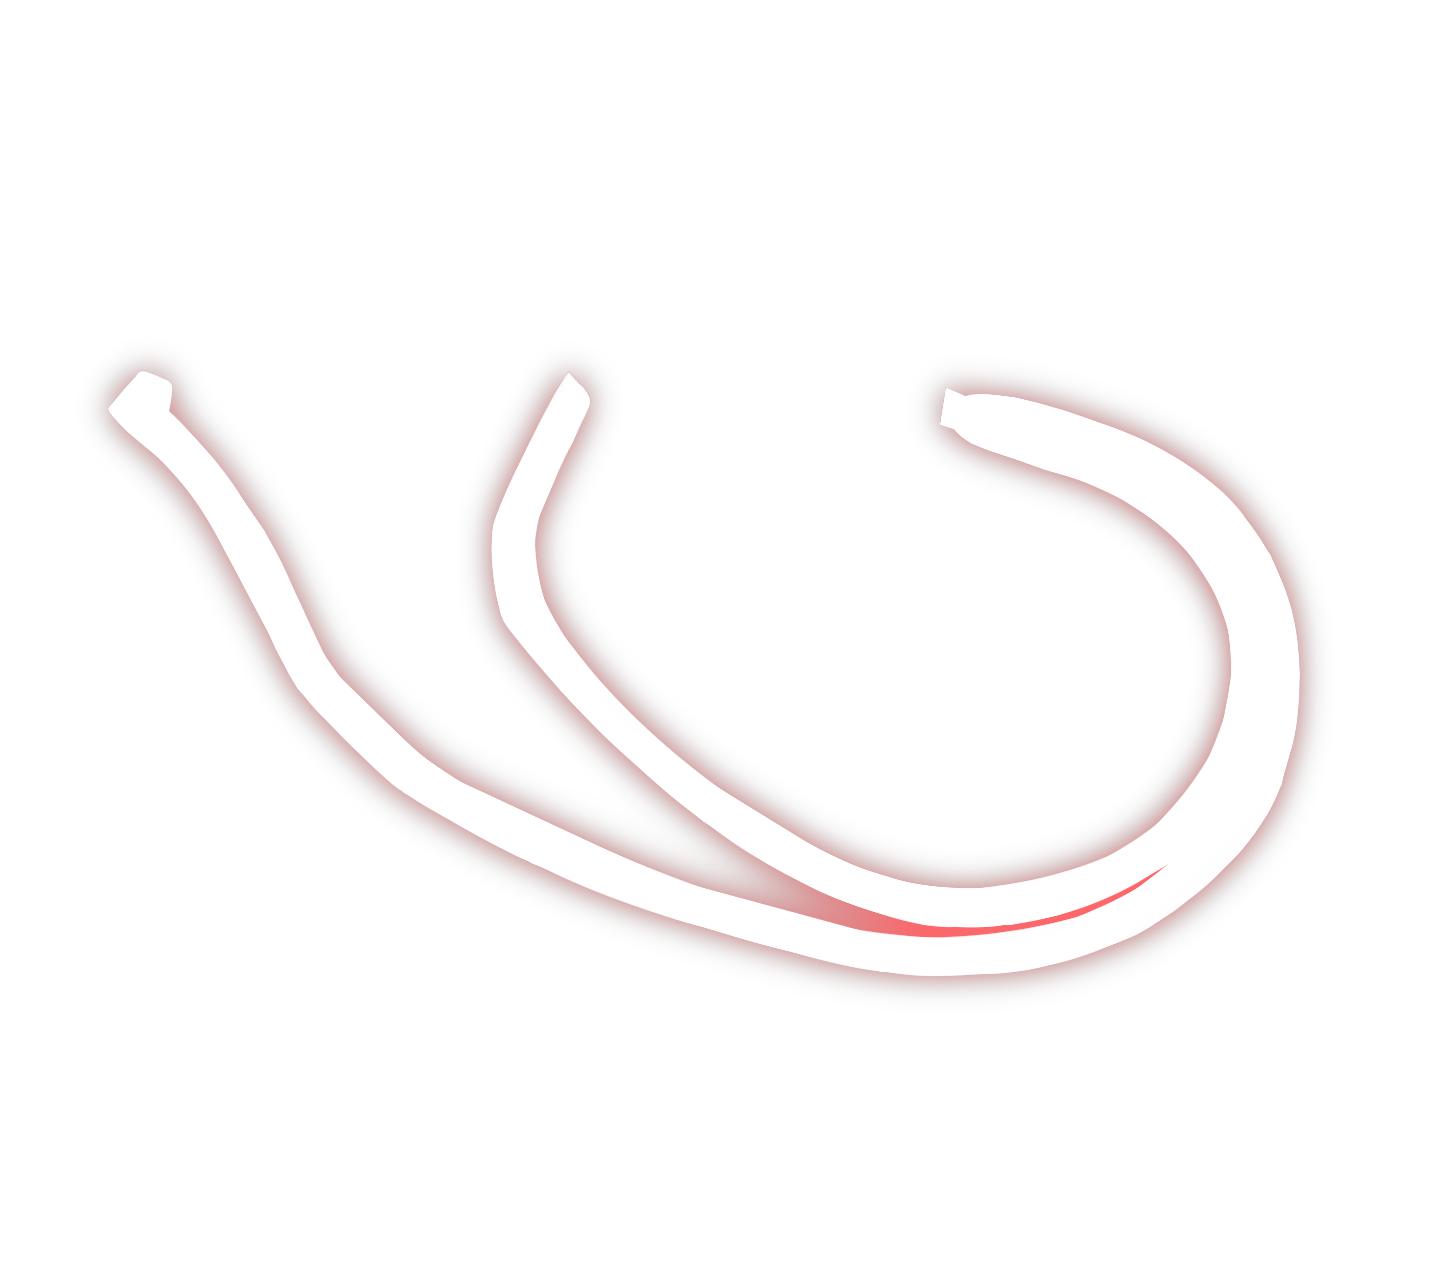
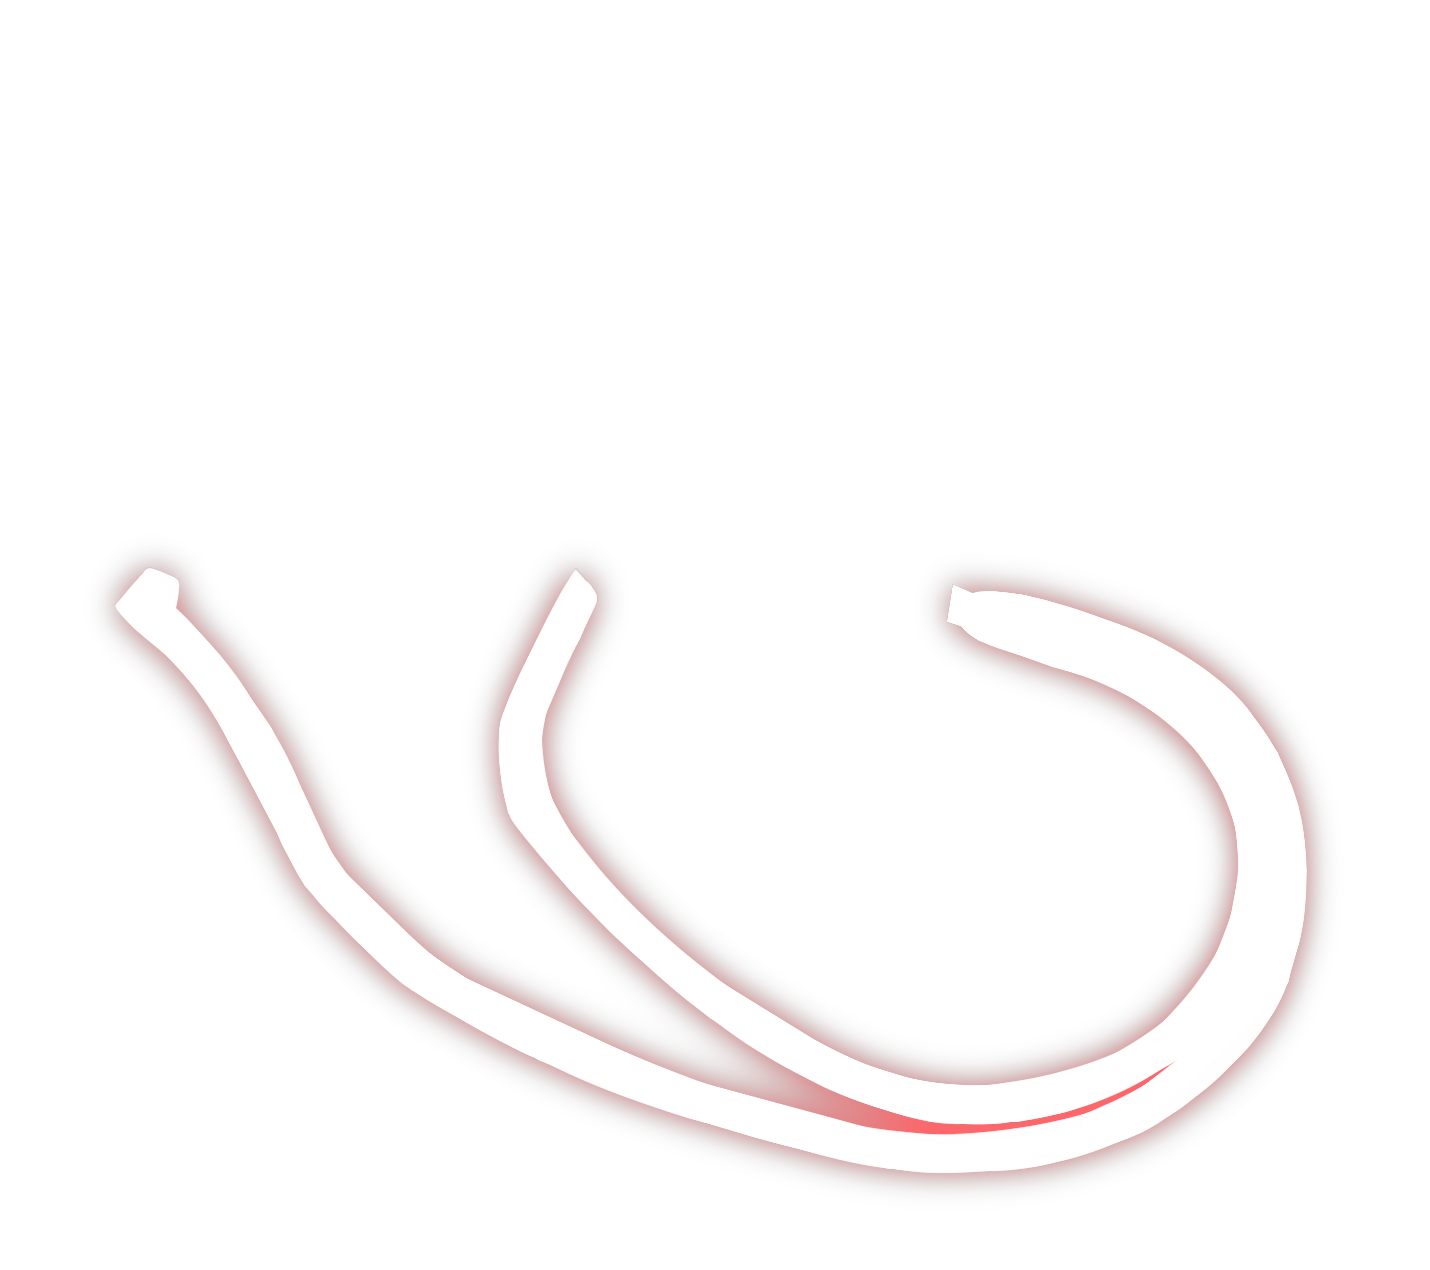
シルエットとターゲット位置をall.PNGに合わせて補正しました
all2.png (1280x1280) 基準のCSS座標をall.PNG (1430x1270) 基準に修正。
キャンバスオフセット dx=82, dy=192 を適用し、gen_css.py・pad_by_css.py・
style.cssを更新。padded_*_s.pngをすべて再生成。

diff --git a/style.css b/style.css
@@ -253,68 +253,68 @@ body {
 }
 
 
-/* 各ターゲットの位置とサイズ（仮の当たり判定領域） */
+/* 各ターゲットの位置とサイズ（all.PNGに合わせて補正済み: dx=82, dy=192 canvas px） */
 #target-1 {
-    left: 374.6px;
-    top: 34.5px;
-    width: 114.8px;
-    height: 121.9px;
+    left: 375.5px;
+    top: 107.3px;
+    width: 115.7px;
+    height: 122.8px;
 }
 
 /* bag (target-2) */
 #target-2 {
-    left: 678.4px;
-    top: 90.8px;
-    width: 118.5px;
-    height: 42.4px;
+    left: 681.6px;
+    top: 164.0px;
+    width: 119.4px;
+    height: 42.7px;
 }
 
 /* connect (target-3) */
 #target-3 {
-    left: 658.5px;
-    top: 106.1px;
-    width: 29.2px;
-    height: 55.5px;
+    left: 661.6px;
+    top: 179.5px;
+    width: 29.5px;
+    height: 55.9px;
 }
 
 /* filter (target-4) */
 #target-4 {
-    left: 450.8px;
-    top: 144.0px;
-    width: 31.5px;
-    height: 33.4px;
+    left: 452.2px;
+    top: 217.7px;
+    width: 31.7px;
+    height: 33.6px;
 }
 
 /* humidifier1 (target-5) */
 #target-5 {
-    left: 543.0px;
-    top: 70.9px;
-    width: 64.5px;
-    height: 93.0px;
+    left: 545.2px;
+    top: 144.0px;
+    width: 65.0px;
+    height: 93.7px;
 }
 
 /* humidifier2 (target-6) */
 #target-6 {
-    left: 545.6px;
-    top: 59.6px;
-    width: 60.0px;
-    height: 39.0px;
+    left: 547.8px;
+    top: 132.7px;
+    width: 60.5px;
+    height: 39.3px;
 }
 
 /* kairo1 (target-7) */
 #target-7 {
-    left: 373.1px;
-    top: 143.2px;
-    width: 447.0px;
-    height: 224.6px;
+    left: 374.0px;
+    top: 216.9px;
+    width: 450.5px;
+    height: 226.4px;
 }
 
 /* kairo2 (target-8) */
 #target-8 {
-    left: 459.0px;
-    top: 50.2px;
-    width: 106.5px;
-    height: 157.9px;
+    left: 460.5px;
+    top: 123.2px;
+    width: 107.3px;
+    height: 159.1px;
 }
 
 

diff --git a/gen_css.py b/gen_css.py
@@ -1,17 +1,21 @@
 def scale(origX, origY, origW, origH):
-    s = 0.375
-    offX = 360
+    # all.PNG (1430x1270) ベースの座標系
+    # canvas -> display: scale=480/1270, x_offset=(1200-1430*scale)/2
+    s = 480.0 / 1270.0      # 0.37795
+    offX = (1200.0 - 1430.0 * s) / 2.0  # 329.76
     return (offX + origX * s, origY * s, origW * s, origH * s)
 
+# all.PNG (1430x1270) 上の各パーツ座標 (x, y, w, h) in canvas pixels
+# all2.png (1280x1280) 元座標から dx=82, dy=192 オフセット補正済み
 targets = [
-    (1, 39, 92, 306, 325),
-    (2, 849, 242, 316, 113),
-    (3, 796, 283, 78, 148),
-    (4, 242, 384, 84, 89),
-    (5, 488, 189, 172, 248),
-    (6, 495, 159, 160, 104),
-    (7, 35, 382, 1192, 599),
-    (8, 264, 134, 284, 421)
+    (1, 121, 284, 306, 325),   # respirator  (旧: 39,92)
+    (2, 931, 434, 316, 113),   # bag         (旧: 849,242)
+    (3, 878, 475, 78, 148),    # connect     (旧: 796,283)
+    (4, 324, 576, 84, 89),     # filter      (旧: 242,384)
+    (5, 570, 381, 172, 248),   # humidifier1 (旧: 488,189)
+    (6, 577, 351, 160, 104),   # humidifier2 (旧: 495,159)
+    (7, 117, 574, 1192, 599),  # kairo1      (旧: 35,382)
+    (8, 346, 326, 284, 421)    # kairo2      (旧: 264,134)
 ]
 
 print("/* 各ターゲットの位置とサイズ（仮の当たり判定領域） */")

diff --git a/pad_by_css.py b/pad_by_css.py
@@ -2,14 +2,14 @@ from PIL import Image, ImageChops, ImageStat
 import os
 
 targets = {
-    1: {"left": 374.6, "top": 34.5, "width": 114.8, "height": 121.9},
-    2: {"left": 678.4, "top": 90.8, "width": 118.5, "height": 42.4},
-    3: {"left": 658.5, "top": 106.1, "width": 29.2, "height": 55.5},
-    4: {"left": 450.8, "top": 144.0, "width": 31.5, "height": 33.4},
-    5: {"left": 543.0, "top": 70.9, "width": 64.5, "height": 93.0},
-    6: {"left": 545.6, "top": 59.6, "width": 60.0, "height": 39.0},
-    7: {"left": 373.1, "top": 143.2, "width": 447.0, "height": 224.6},
-    8: {"left": 459.0, "top": 50.2, "width": 106.5, "height": 157.9}
+    1: {"left": 375.5, "top": 107.3, "width": 115.7, "height": 122.8},
+    2: {"left": 681.6, "top": 164.0, "width": 119.4, "height": 42.7},
+    3: {"left": 661.6, "top": 179.5, "width": 29.5, "height": 55.9},
+    4: {"left": 452.2, "top": 217.7, "width": 31.7, "height": 33.6},
+    5: {"left": 545.2, "top": 144.0, "width": 65.0, "height": 93.7},
+    6: {"left": 547.8, "top": 132.7, "width": 60.5, "height": 39.3},
+    7: {"left": 374.0, "top": 216.9, "width": 450.5, "height": 226.4},
+    8: {"left": 460.5, "top": 123.2, "width": 107.3, "height": 159.1}
 }
 
 parts = ["respirator", "bag", "connect", "filter", "humidifier1", "humidifier2", "kairo1", "kairo2"]
